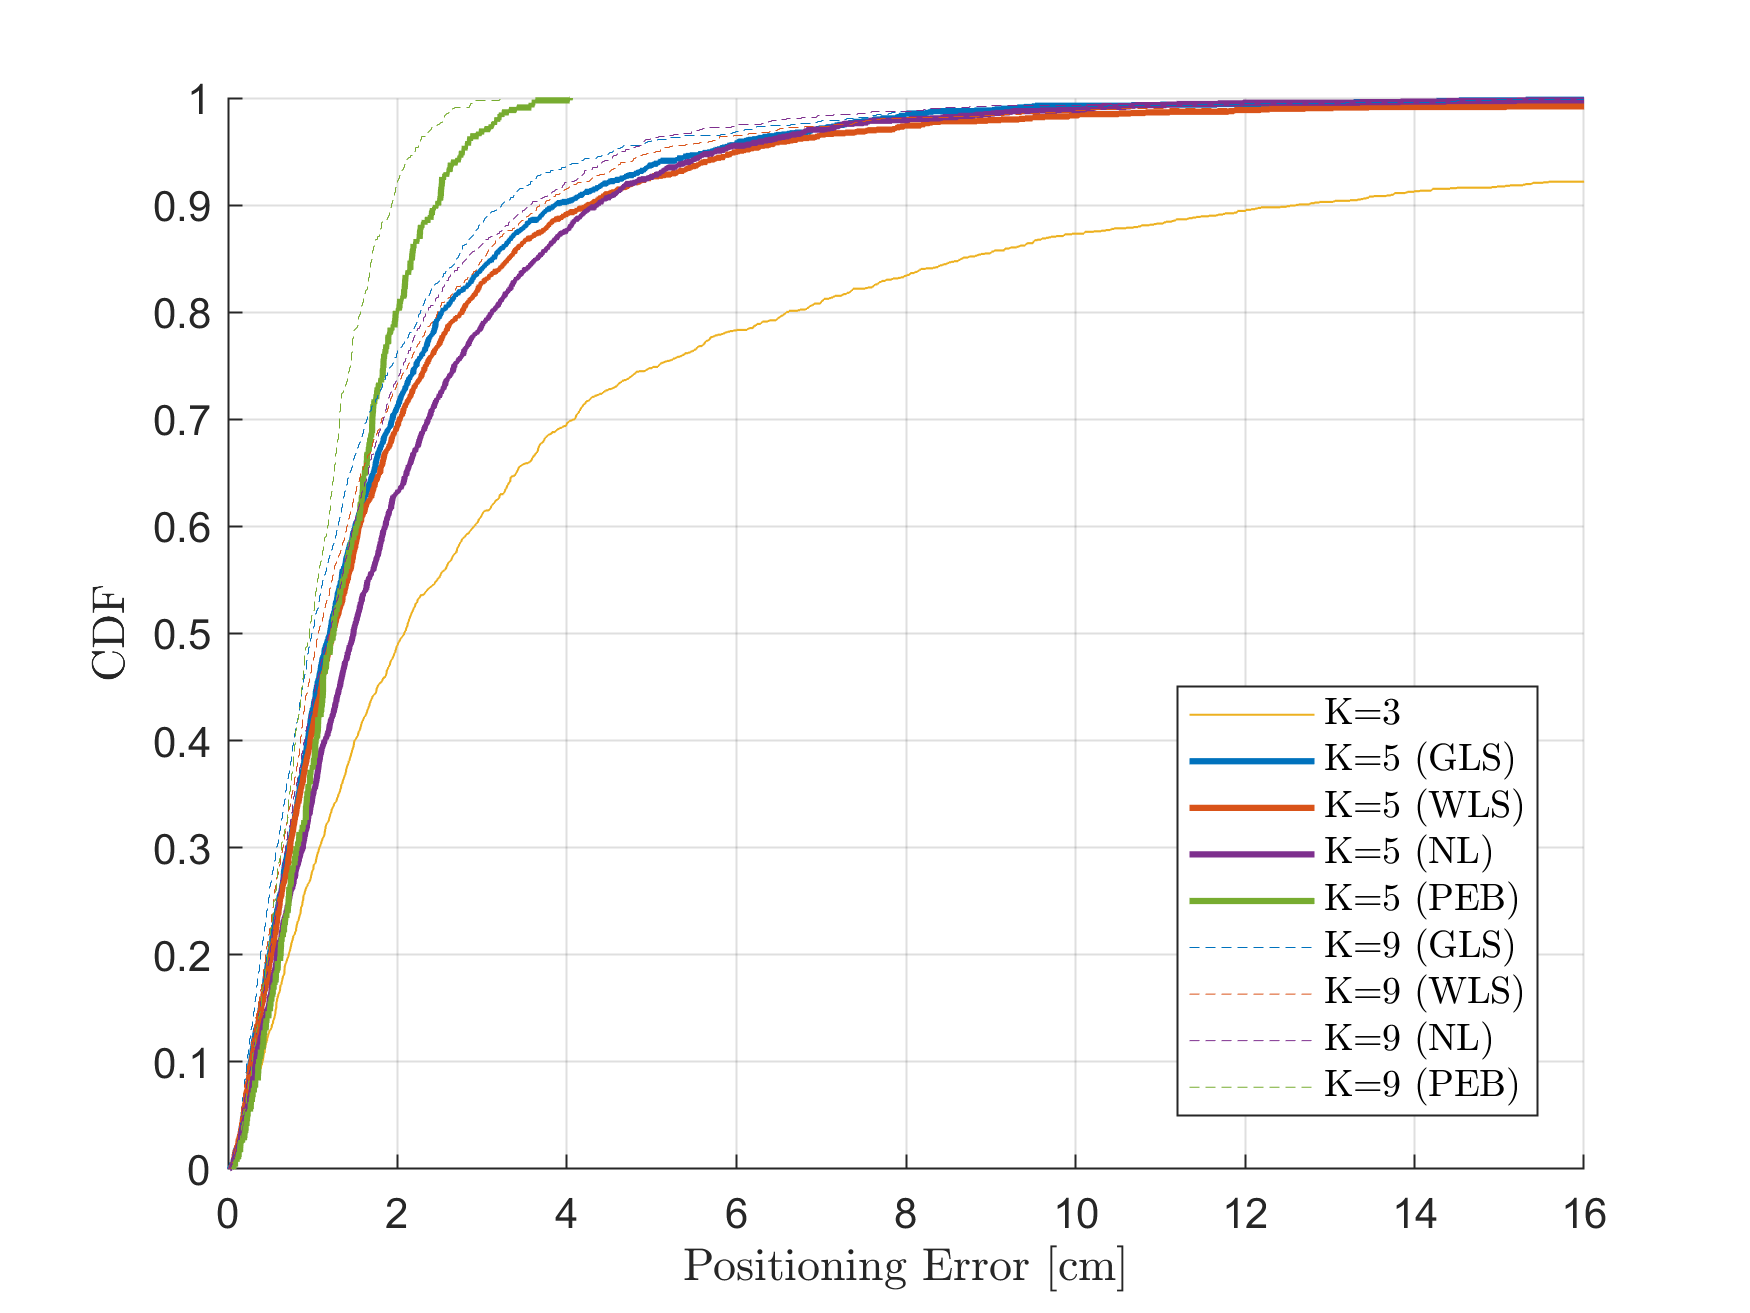
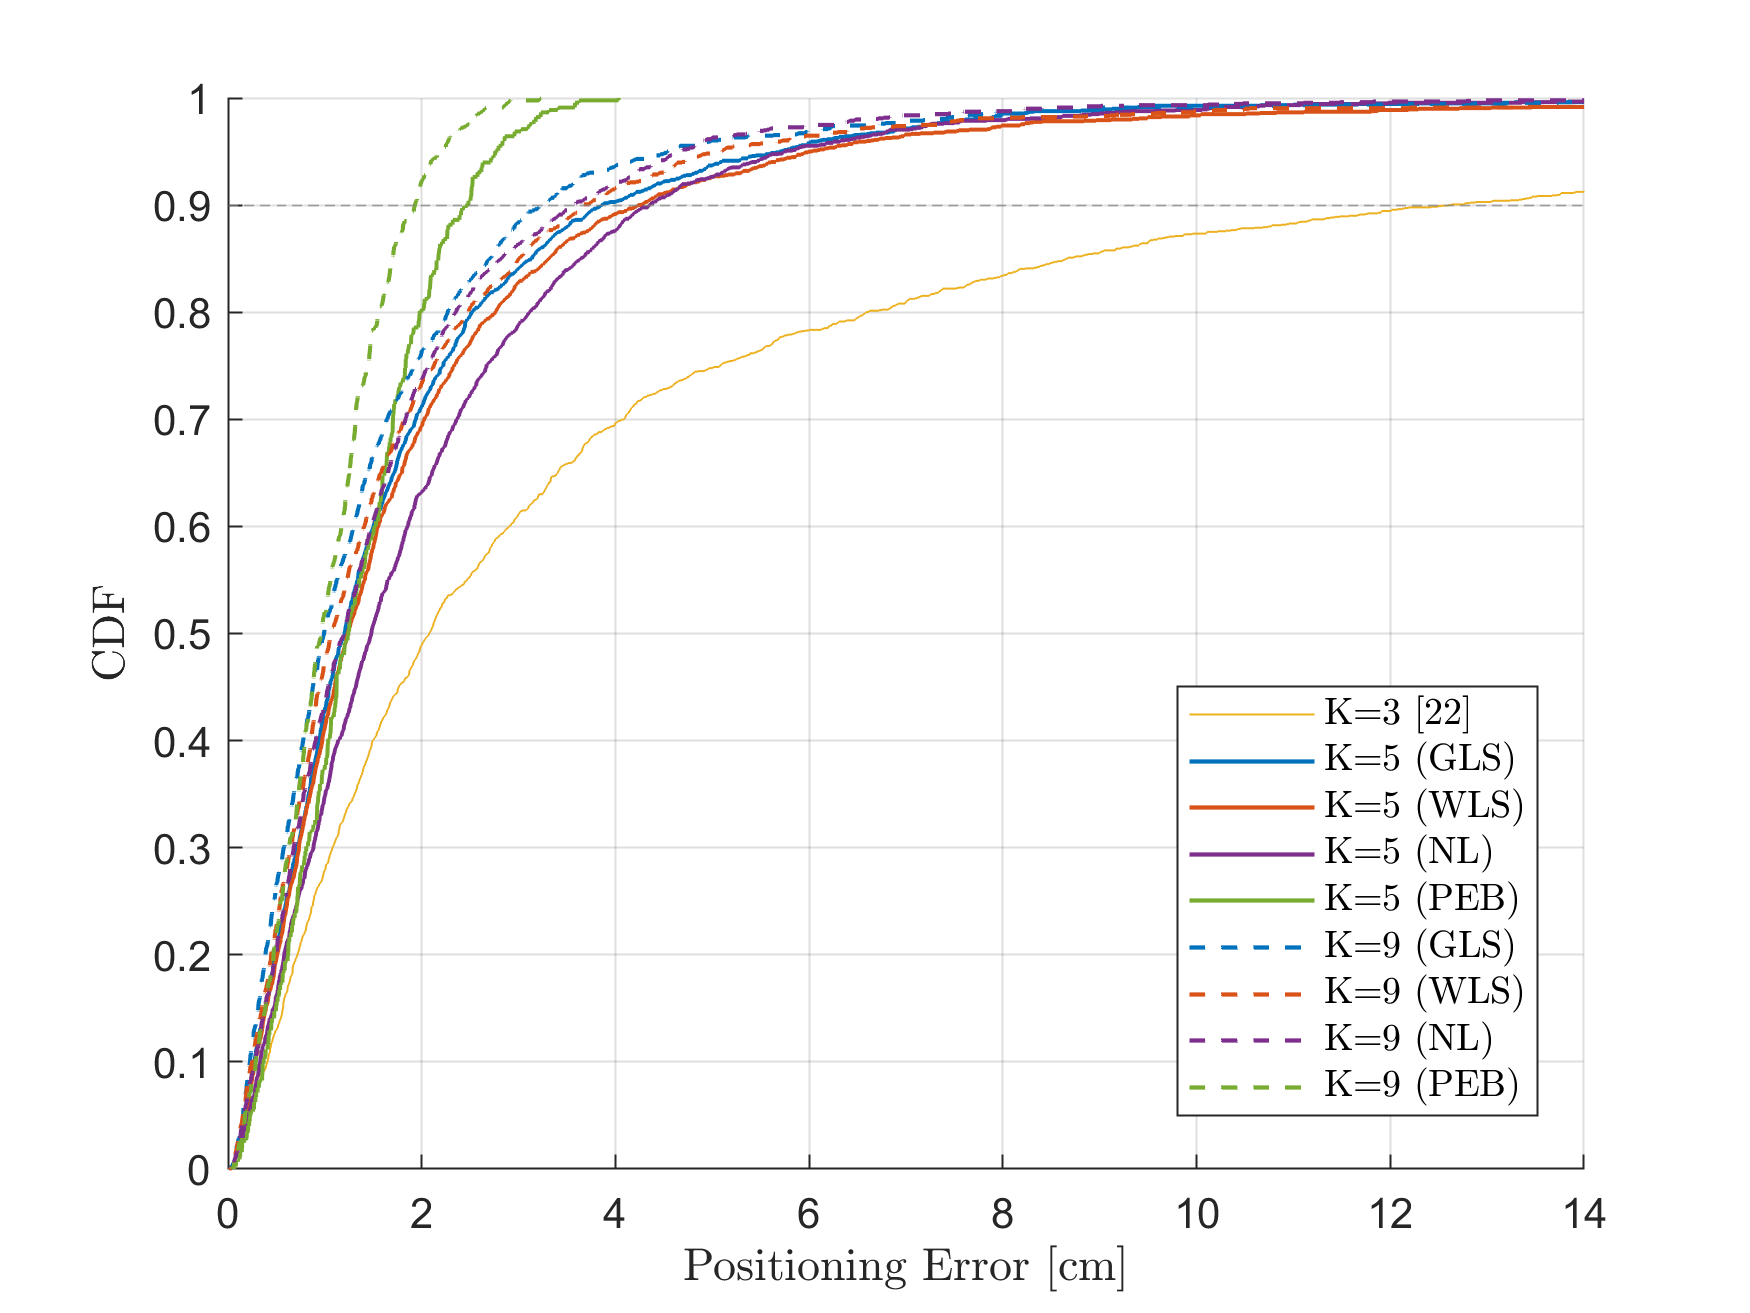
progressos en graficas

diff --git a/fundamentals/Comparison between estimators Linear-NonLinear/FigComparisonMethods.m b/fundamentals/Comparison between estimators Linear-NonLinear/FigComparisonMethods.m
@@ -28,34 +28,49 @@ errorNormNL_K9 = load('K9_NL_optimized_fixed.mat').errorNorm;
 % CDF plot
 figure(1)
 hold on;
-lw_5 = 1.5;
-lw_9 = 0.2;
-[f2, x2] = ecdf(errorNormSVD_K3(:)*100,'Function','cdf');stairs(x2, f2, '-', 'LineWidth', 0.5,'Color',[0.9290, 0.6940, 0.1250]);
-[f2, x2] = ecdf(errorNormGLS_K5(:)*100,'Function','cdf');stairs(x2, f2, '-', 'LineWidth', lw_5,'Color',[0, 0.4470, 0.7410]);
-[f1, x1] = ecdf(errorNormWLS_K5(:)*100,'Function','cdf');stairs(x1, f1, '-', 'LineWidth', lw_5,'Color',[0.8500, 0.3250, 0.0980]);
-[f3, x3] = ecdf(errorNormNL_K5(:)*100,'Function','cdf'); stairs(x3, f3, '-', 'LineWidth', lw_5,'Color',[0.4940, 0.1840, 0.5560]);
-[f4, x4] = ecdf(errorNormCRLB_K5(:)*100,'Function','cdf'); stairs(x4, f4, '-', 'LineWidth', lw_5,'Color',[0.4660, 0.6740, 0.1880]);
+lw_5 = 1;
+lw_9 = 1;
+factor = 100;
+[f2, x2] = ecdf(errorNormSVD_K3(:)*factor,'Function','cdf');stairs(x2, f2, '-', 'LineWidth', 0.5,'Color',[0.9290, 0.6940, 0.1250]);
+[f2, x2] = ecdf(errorNormGLS_K5(:)*factor,'Function','cdf');stairs(x2, f2, '-', 'LineWidth', lw_5,'Color',[0, 0.4470, 0.7410]);
+[f1, x1] = ecdf(errorNormWLS_K5(:)*factor,'Function','cdf');stairs(x1, f1, '-', 'LineWidth', lw_5,'Color',[0.8500, 0.3250, 0.0980]);
+[f3, x3] = ecdf(errorNormNL_K5(:)*factor,'Function','cdf'); stairs(x3, f3, '-', 'LineWidth', lw_5,'Color',[0.4940, 0.1840, 0.5560]);
+[f4, x4] = ecdf(errorNormCRLB_K5(:)*factor,'Function','cdf'); stairs(x4, f4, '-', 'LineWidth', lw_5,'Color',[0.4660, 0.6740, 0.1880]);
 
-[f2, x2] = ecdf(errorNormGLS_K9(:)*100,'Function','cdf');stairs(x2, f2, '--', 'LineWidth', lw_9,'Color',[0, 0.4470, 0.7410]);
-[f1, x1] = ecdf(errorNormWLS_K9(:)*100,'Function','cdf');stairs(x1, f1, '--', 'LineWidth', lw_9,'Color',[0.8500, 0.3250, 0.0980]);
-[f3, x3] = ecdf(errorNormNL_K9(:)*100,'Function','cdf'); stairs(x3, f3, '--', 'LineWidth', lw_9,'Color',[0.4940, 0.1840, 0.5560]);
-[f4, x4] = ecdf(errorNormCRLB_K9(:)*100,'Function','cdf'); stairs(x4, f4, '--', 'LineWidth', lw_9,'Color',[0.4660, 0.6740, 0.1880]);
+[f2, x2] = ecdf(errorNormGLS_K9(:)*factor,'Function','cdf');stairs(x2, f2, '--', 'LineWidth', lw_9,'Color',[0, 0.4470, 0.7410]);
+[f1, x1] = ecdf(errorNormWLS_K9(:)*factor,'Function','cdf');stairs(x1, f1, '--', 'LineWidth', lw_9,'Color',[0.8500, 0.3250, 0.0980]);
+[f3, x3] = ecdf(errorNormNL_K9(:)*factor,'Function','cdf'); stairs(x3, f3, '--', 'LineWidth', lw_9,'Color',[0.4940, 0.1840, 0.5560]);
+[f4, x4] = ecdf(errorNormCRLB_K9(:)*factor,'Function','cdf'); stairs(x4, f4, '--', 'LineWidth', lw_9,'Color',[0.4660, 0.6740, 0.1880]);
 
-
+yline(0.9,'--','LineWidth',0.4,'Color',[0.5 0.5 0.5])
 grid on;
-axis([0 16 0 1])
+axis([0 14 0 1])
 xlabel('Positioning Error [cm]','interpreter','latex');
 ylabel('CDF','Interpreter','latex');
-legend('K=3','K=5 (GLS)', 'K=5 (WLS)','K=5 (NL)', 'K=5 (PEB)', 'K=9 (GLS)','K=9 (WLS)','K=9 (NL)', 'K=9 (PEB)', 'Location', 'best','interpreter','latex');
+legend('K=3 [22]','K=5 (GLS)', 'K=5 (WLS)','K=5 (NL)', 'K=5 (PEB)', 'K=9 (GLS)','K=9 (WLS)','K=9 (NL)', 'K=9 (PEB)', 'Location', 'best','interpreter','latex');
+
+figure(1);
+set(gcf, 'Color', 'white');
+print('Fig_CDF.png', '-dpng', '-r300');
+
 
 %%
 % Tiempo - Análisis comparativo de métodos de estimación
-avg_time_K5_WLS = mean((load('K5_WLS_fixed.mat').time_WLS)*1000);
-avg_time_K5_GLS = mean((load('K5_GLS_fixed.mat').time_GLS)*1000);
-avg_time_K5_NL = mean((load('K5_NL_optimized_fixed.mat').time_NL)*1000);
-avg_time_K9_WLS = mean((load('K9_WLS_fixed.mat').time_WLS)*1000);
-avg_time_K9_GLS = mean((load('K9_GLS_fixed.mat').time_GLS)*1000);
-avg_time_K9_NL = mean((load('K9_NL_optimized_fixed.mat').time_NL)*1000);
+% avg_time_K5_WLS = median((load('K5_WLS_fixed.mat').time_WLS)*1000);
+% avg_time_K5_GLS = median((load('K5_GLS_fixed.mat').time_GLS)*1000);
+% avg_time_K5_NL = median((load('K5_NL_optimized_fixed.mat').time_NL)*1000);
+% avg_time_K9_WLS = median((load('K9_WLS_fixed.mat').time_WLS)*1000);
+% avg_time_K9_GLS = median((load('K9_GLS_fixed.mat').time_GLS)*1000);
+% avg_time_K9_NL = median((load('K9_NL_optimized_fixed.mat').time_NL)*1000);
+
+avg_time_K5_WLS = 0.0217;
+avg_time_K5_GLS = 0.0267;
+avg_time_K5_NL = median((load('K5_NL_optimized_fixed.mat').time_NL)*1000);
+avg_time_K9_WLS = 0.026050;
+avg_time_K9_GLS = 0.0341;
+avg_time_K9_NL = median((load('K9_NL_optimized_fixed.mat').time_NL)*1000);
+
+
 
 % Organizar datos por método y configuración (coherente con figura 1)
 tiempos_K5 = [avg_time_K5_GLS, avg_time_K5_WLS, avg_time_K5_NL];
@@ -131,6 +146,11 @@ set(gca, 'YScale', 'log');
 %legend([bar1, bar2, bar3], {'GLS', 'WLS', 'NL'}, 'Location', 'northeast', 'Interpreter', 'latex', 'FontSize', 10);
 
 hold off;
+
+
+figure(2);
+set(gcf, 'Color', 'white');
+print('Fig_Time.png', '-dpng', '-r300');
 
 
 %%
@@ -264,13 +284,6 @@ fprintf('======================================================================\
 
 
 
-figure(1);
-set(gcf, 'Color', 'white');
-print('Fig_CDF.png', '-dpng', '-r300');
-
-figure(2);
-set(gcf, 'Color', 'white');
-print('Fig_Time.png', '-dpng', '-r300');
 
 
 

diff --git a/fundamentals/Comparison between estimators Linear-NonLinear/FigCompare3D_WLS_GLS.m b/fundamentals/Comparison between estimators Linear-NonLinear/FigCompare3D_WLS_GLS.m
@@ -27,11 +27,11 @@ W = 3; % Width of room [m]
 Hmax = 1.2; % Maximum height [m]
 
 % Parametros para el estudio 
-% step = 0.2; % step en X,Y
-% stepH = 0.2; % Step size [m]
-% % Parametros para la Figura Comparacion de posiciones estimadas vs reales
-step = 0.25; % step X,Y
-stepH = 0.6; % Step size [m]
+step = 0.2; % step en X,Y
+stepH = 0.2; % Step size [m]
+% % % Parametros para la Figura Comparacion de posiciones estimadas vs reales
+% step = 0.25; % step X,Y
+% stepH = 0.6; % Step size [m]
 
 
 % Seleccionar modo de posiciones del receptor
@@ -197,7 +197,9 @@ for i_pos = 1:N_pos
     tic;
     % Obtener dirección usando el método WLS 
     [d_hat_robust, ~, ~] = vlp_wls(n_t', P_raw, m_t);
-    
+    tiempo_ejecucion = toc;
+    time_WLS = [time_WLS; tiempo_ejecucion];
+
     % Calcular distancia usando el enfoque beamsteering (Tx-Rx)
     v_tr_est_WLS = d_hat_robust';
     param_t_axis = {T, v_tr_est_WLS, P_t, m_t};
@@ -210,8 +212,7 @@ for i_pos = 1:N_pos
     
     % Posición final combinando dirección WLS robusta con distancia
     estPosWLS(i_pos,:) = T + (v_tr_est_WLS.*d_tr_est_WLS);
-    tiempo_ejecucion = toc;
-    time_WLS = [time_WLS; tiempo_ejecucion];
+
 
     %---------------------------------------------------------------------------------------%
     % Case 6: GLS (Generalized Least Squares) con matriz de covarianza completa
@@ -220,7 +221,8 @@ for i_pos = 1:N_pos
     tic;
     % Obtener dirección usando el método GLS (con matriz de covarianza completa)
     [d_hat_gls] = vlp_gls(n_t', P_raw, m_t, sigma2);
-    
+    tiempo_ejecucion = toc;
+    time_GLS = [time_GLS; tiempo_ejecucion];
     % Calcular distancia usando el enfoque beamsteering (Tx-Rx)
     v_tr_est_GLS = d_hat_gls';
     param_t_axis = {T, v_tr_est_GLS, P_t, m_t};
@@ -233,8 +235,7 @@ for i_pos = 1:N_pos
     
     % Posición final combinando dirección GLS con distancia por beamsteering
     estPosGLS(i_pos,:) = T + (v_tr_est_GLS.*d_tr_est_GLS);
-    tiempo_ejecucion = toc;
-    time_GLS = [time_GLS; tiempo_ejecucion];
+
 end
 
 %% 5. Error Calculation and CRLB Bound

diff --git a/fundamentals/Comparison between estimators Linear-NonLinear/Violin_Comparison_K/horizontal_violin_plot_comparison.py b/fundamentals/Comparison between estimators Linear-NonLinear/Violin_Comparison_K/horizontal_violin_plot_comparison.py
@@ -18,7 +18,7 @@ Date: 2025
 # CONFIGURACIÓN PRINCIPAL
 # =============================================================================
 # Flag para elegir orientación del plot
-PLOT_ORIENTATION = 'horizontal'  # Opciones: 'horizontal' o 'vertical'
+PLOT_ORIENTATION = 'vertical'  # Opciones: 'horizontal' o 'vertical'
 # =============================================================================
 
 import pandas as pd
@@ -109,7 +109,7 @@ def load_and_process_data(csv_optimized='PEB_optimizadas.csv', csv_random='PEB_a
     
     return df_combined
 
-def create_vertical_split_violin_plot(df, save_path='vertical_violin_comparison_peb.png', figsize=(12, 8), box_width=0.1):
+def create_vertical_split_violin_plot(df, save_path='vertical_violin_comparison_peb.png', figsize=(10, 4), box_width=0.1):
     """
     Crea un violin plot vertical dividido estético donde cada K tiene un violin con
     mitad izquierda (optimizadas) y mitad derecha (aleatorias).
@@ -243,7 +243,7 @@ def create_vertical_split_violin_plot(df, save_path='vertical_violin_comparison_
     
     # Configuración de ejes y etiquetas para orientación vertical
     ax.set_xlim(min(k_values)-0.45, max(k_values)+0.45)
-    ax.set_ylim(0, 10)
+    ax.set_ylim(0, 6.05)
     ax.set_xticks(k_values)
     
     # Etiquetas con formato journal
@@ -252,8 +252,8 @@ def create_vertical_split_violin_plot(df, save_path='vertical_violin_comparison_
     
     # Mejorar ticks
     ax.tick_params(axis='both', which='major', labelsize=16)
-    ax.set_yticks(np.arange(0, 11, 1))
-    ax.set_yticks(np.arange(0, 11, 0.5), minor=True)
+    ax.set_yticks(np.arange(0, 6.05, 1))
+    ax.set_yticks(np.arange(0, 6.05, 0.5), minor=True)
     
     # Grid profesional
     ax.grid(True, alpha=0.3, linestyle='-', linewidth=0.5, color='gray')

diff --git a/fundamentals/CRLB analysis/OPTIMIZATION/NL_test_K5.m b/fundamentals/CRLB analysis/OPTIMIZATION/NL_test_K5.m
@@ -208,7 +208,8 @@ for i_pos = 1:N_pos
     [sol,fval] = solve(prob,x0); % Non-linear optimization problem resolution
     v_hat = [sol.x, sol.y, sol.z]; % Solution reached
     v_tr_est(i_pos,:) = v_hat./norm(v_hat); % Normalized solution, i.e. estimate of the unit vector from Tx to Rx
-
+    tiempo_ejecucion = toc;
+    time_NL = [time_NL; tiempo_ejecucion];
     % 9. Estimation of the Rx coordinates from the estimated v_tr
     param_t_axis = {T, v_tr_est(i_pos,:), P_t, m_t};
     param_r_axis = {A_det, -v_tr_est(i_pos,:), FOV}; % Vector of the Rx parameters used for channel simulation
@@ -216,8 +217,7 @@ for i_pos = 1:N_pos
     P_r_axis_noisy(i_pos,:) = P_r_axis(i_pos) + sqrt(sigma2).*randn(1,1000); % Corresponding noise power observed [W]
     d_tr_est(i_pos) = sqrt(P_t*(m_t+1)*A_det/(2*pi*mean(P_r_axis_noisy(i_pos,:)))); % Estimated absolute distance (case with noise) [m]
     estPos(i_pos,:) = v_tr_est(i_pos,:).*d_tr_est(i_pos); % Estimated coordinates of the Rx
-    tiempo_ejecucion = toc;
-    time_NL = [time_NL; tiempo_ejecucion];
+
 end
 
 
@@ -245,4 +245,4 @@ cdfplot(errorNorm.*1e2); hold on;
 xlabel('RMS error [cm]'); ylabel('Empirical cumulative distribution function'); xlim([0 10])
 legend('Non-linear estimator of X','Location','best');
 
-% save 'K5_NL.mat' errorNorm time_NL
+% save 'K5_NL.mat' errorNorm time_NL 

diff --git a/fundamentals/CRLB analysis/OPTIMIZATION/NL_test_K9.m b/fundamentals/CRLB analysis/OPTIMIZATION/NL_test_K9.m
@@ -227,7 +227,9 @@ for i_pos = 1:N_pos
     [sol,fval] = solve(prob,x0); % Non-linear optimization problem resolution
     v_hat = [sol.x, sol.y, sol.z]; % Solution reached
     v_tr_est(i_pos,:) = v_hat./norm(v_hat); % Normalized solution, i.e. estimate of the unit vector from Tx to Rx
-
+    tiempo_ejecucion = toc;
+    time_NL = [time_NL; tiempo_ejecucion];
+    
     % 9. Estimation of the Rx coordinates from the estimated v_tr
     param_t_axis = {T, v_tr_est(i_pos,:), P_t, m_t};
     param_r_axis = {A_det, -v_tr_est(i_pos,:), FOV}; % Vector of the Rx parameters used for channel simulation
@@ -235,8 +237,7 @@ for i_pos = 1:N_pos
     P_r_axis_noisy(i_pos,:) = P_r_axis(i_pos) + sqrt(sigma2).*randn(1,1000); % Corresponding noise power observed [W]
     d_tr_est(i_pos) = sqrt(P_t*(m_t+1)*A_det/(2*pi*mean(P_r_axis_noisy(i_pos,:)))); % Estimated absolute distance (case with noise) [m]
     estPos(i_pos,:) = v_tr_est(i_pos,:).*d_tr_est(i_pos); % Estimated coordinates of the Rx
-    tiempo_ejecucion = toc;
-    time_NL = [time_NL; tiempo_ejecucion];
+
 end
 
 

diff --git a/fundamentals/Comparison between estimators Linear-NonLinear/original_bastien_NL_K9.m b/fundamentals/Comparison between estimators Linear-NonLinear/original_bastien_NL_K9.m
@@ -217,7 +217,8 @@ for i_pos = range
     [sol,fval] = solve(prob,x0); % Non-linear optimization problem resolution
     v_hat = [sol.x, sol.y, sol.z]; % Solution reached
     v_tr_est(i_pos,:) = v_hat./norm(v_hat); % Normalized solution, i.e. estimate of the unit vector from Tx to Rx
-
+    tiempo_ejecucion = toc;
+    time_NL = [time_NL; tiempo_ejecucion];
     % 9. Estimation of the Rx coordinates from the estimated v_tr
     param_t_axis = {T, v_tr_est(i_pos,:), P_t, m_t};
     param_r_axis = {A_det, -v_tr_est(i_pos,:), FOV}; % Vector of the Rx parameters used for channel simulation
@@ -225,8 +226,7 @@ for i_pos = range
     P_r_axis_noisy(i_pos,:) = P_r_axis(i_pos) + sqrt(sigma2).*randn(1,1000); % Corresponding noise power observed [W]
     d_tr_est(i_pos) = sqrt(P_t*(m_t+1)*A_det/(2*pi*mean(P_r_axis_noisy(i_pos,:)))); % Estimated absolute distance (case with noise) [m]
     estPos(i_pos,:) = v_tr_est(i_pos,:).*d_tr_est(i_pos); % Estimated coordinates of the Rx
-    tiempo_ejecucion = toc;
-    time_NL = [time_NL; tiempo_ejecucion];
+
 end
 
 
